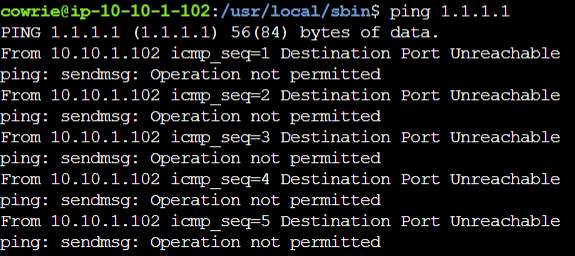
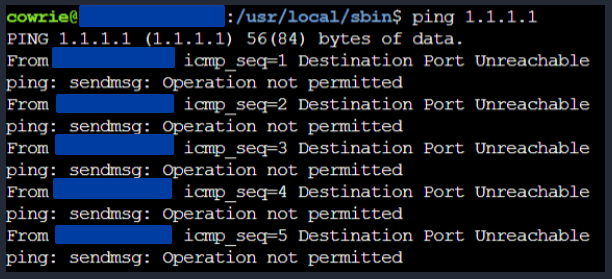
added todos, scheduled queries (subsection), eventbridge

diff --git a/code/lambda.py b/code/lambda.py
@@ -20,7 +20,7 @@ def rows_to_dicts(results):
 def publish(subject, payload):
     response = sns.publish(
         TopicArn=TOPIC_ARN,
-        Subject=subject[:99],
+        Subject=subject[:100],
         Message=json.dumps(payload, indent=2, default=str),
     )
     return response["MessageId"]
@@ -71,17 +71,35 @@ def lambda_handler(event, context):
             return {"alerted": False, "reason": "Query returned no detections"}
 
         detection = rows[0].get("detection", "COWRIE_DETECTION")
+        severity_by_detection = {
+            "CREDENTIAL_GUESSING_BURST": "MEDIUM",
+            "FILE_TRANSFER": "HIGH",
+        }
+        next_step_by_detection = {
+            "CREDENTIAL_GUESSING_BURST": (
+                "Review authentication events for the source IP, then pivot "
+                "on its session identifiers in the private log group."
+            ),
+            "FILE_TRANSFER": (
+                "Review the session, transfer metadata, and SHA-256 value."
+            ),
+        }
+        severity = severity_by_detection.get(detection, "MEDIUM")
+
         payload = {
             "detection": detection,
-            "severity": "MEDIUM",
+            "severity": severity,
             "time": event.get("time"),
             "region": event.get("region"),
             "matched_rows": len(rows),
             "results": rows[:MAX_ROWS_IN_ALERT],
             "statistics": detail.get("statistics", {}),
-            "next_step": "Pivot on src_ip and session in the private log group.",
+            "next_step": next_step_by_detection.get(
+                detection,
+                "Pivot on src_ip and session in the private log group.",
+            ),
         }
-        message_id = publish(f"Cowrie alert: {detection}", payload)
+        message_id = publish(f"{severity}: Cowrie {detection}", payload)
         return {"alerted": True, "message_id": message_id}
 
     return {"alerted": False, "reason": "Unsupported event type"}

diff --git a/README.md b/README.md
@@ -1,12 +1,17 @@
 # AWS CloudWatch-Based SIEM with Honeypot
 
-AWS-Hosted Security Information and Event Management (SIEM) using CloudWatch service with Cowrie Honeypot as data source, data and analytics are sanitized and visualized to a public Cloudfront dashboard.
+AWS-Hosted Security Information and Event Management (SIEM) using CloudWatch service with Cowrie Honeypot as data source, data and analytics are sanitized and visualized to a public CloudFront dashboard.
 
 ## Architecture Overview
 
 <p align="center">
   <img src="images/arch.png" alt="Architecture Overview" width="70%">
 </p>
+
+To-Dos:
+- [ ] Change login success and credential-burst processing
+- [ ] Unblock Cowrie's egress firewall
+- [ ] Create Dashboard and vizg
 
 ## Event Flow
 
@@ -31,49 +36,49 @@ Project uses the following AWS services :
 | **Amazon Lambda** | Evaluates detection results and generates concise alerts |
 | **Amazon SNS** | Distributes alert notifications |
 | **Amazon S3** | Archives raw logs and stores sanitized dashboard data |
-| **Amazon Cloudfront** | Publishes the sanitized portfolio dashboard |
+| **Amazon CloudFront** | Publishes the sanitized portfolio dashboard |
 
-# Preparation
+## Preparation
 
-## Cowrie
+### Cowrie
 
   <img src="images/cowrie-logo.png" alt="Cowrie Logo" width="20%">
 
-Cowrie is a medium- and high-interaction SSH and Telnet honeypot designed to capture brute-force attempts and record attacker activity. In this project, Cowrie operates in medium-interaction shell mode, where it emulates UNIX environment in Python and serves as the primary source of data.
+Cowrie is a medium- and high-interaction SSH and Telnet honeypot designed to capture brute-force attempts and record attacker activity. In this project, Cowrie operates in medium-interaction shell mode where it emulates UNIX environment in Python and serves as the primary source of data.
 
-## Region
+### Region
 
 Regional resources in this project are deployed in the Asia Pacific (Jakarta) Region _(ap-southeast-3)_. CloudFront is a global service, while other resources (EC2, CloudWatch, Lambda, SNS, EventBridge, and S3) are configured in selected AWS Region.
 
-## Pricing Calculation
+### Pricing Calculation
 
 ![Price Calculation](images/pricing-calc.png)
 
-Estimated Monthly cost is **14.06 USD**. The cost covers one **EC2 Instances + gp3 EBS**, and one **Public IPv4 address**.
+Estimated Monthly cost is **14.06 USD** as per of `16 July 2026`. The cost covers one **EC2 Instances + 8GB gp3 EBS**, and one **Public IPv4 address**.
 
-**CloudWatch, Lambda, SNS, S3 & CloudFront** will use Free Tier Plan, therefore the services will be free of charge.
+**CloudWatch, Lambda, SNS, S3 & CloudFront** will use Free Tier Plan and expected to remain within free tier usage, therefore the services will be free of charge.
 
-## Budgeting
+### Budgeting
 
 ![Budget Dashboard](images/budgets.png)
 
 Project service costs per month are tracked via AWS Budgets `Monthly Cost Limit`. Additionally, `Zero-Spend` alert is also configured to flag any unexpected resource usage before it accumulate cost.
 
-## Account
+### Account
 
 Before starting, a separate IAM user named `bint-siem` is created instead of using the root user account for the project. The user is then attached to a user group with only the permissions necessary for this project, following the _Principle of Least Privilege_ (PoLP) 
 
 ![User Group Permissions](images/permissions.png)
 
-# Network
+## Network
 
-## VPC
+### VPC
 
 ![Resource Map](images/resource-map.png)
 
 EC2 instance is deployed in a _Virtual Private Cloud_ (VPC) named `cowrie-siem-vpc` using `10.10.0.0/16` CIDR block, with a public subnet at `10.10.1.0/24`. This setup provides 251 IP addresses (AWS reserves 5 addresses) which is more than enough for the EC2 instance.
 
-## Security Group
+### Security Group
 
 Security group is configured for `cowrie-siem-vpc` with inbound and outbound rules as below:
 
@@ -90,20 +95,20 @@ b. Outbound Rules
 | HTTPS | TCP | 443 | `0.0.0.0/0` | SSM, CloudWatch, AWS APIs, HTTPS package repositories
 | HTTP | TCP | 80 | `0.0.0.0/0` | If a package repository still requires HTTP
 
-# EC2
+## EC2
 
-## IAM role
+### IAM role
 
 ![Resource Map](images/ec2-role.png)
 
 EC2 instance is attached with a role with policies below:
 
-a. `AmazonSSMManagedInstanceCore` : Enable AWS Systems Manager service core 
+a. `AmazonSSMManagedInstanceCore`: Enable AWS Systems Manager service core 
 functionality
 
-b. `CowrieCloudWatchLogsWrite` _(Inline Policy)_ : Send logs only to `/honeypot/cowrie` CloudWatch Logs group
+b. `CowrieCloudWatchLogsWrite` _(Inline Policy)_: Send logs only to `/honeypot/cowrie` CloudWatch Logs group
 
-## Installing Cowrie
+### Installing Cowrie
 
 Before installing Cowrie, a dedicated unprevileged user and python venv are created. Running Cowrie without admin power limits impact if honeypot is compromised, venv keeps python dependencies isolated from the system environment.
 
@@ -120,12 +125,12 @@ listen_endpoints = tcp:22:interface=0.0.0.0
 [telnet]
 enabled = false
 ```
-Since ports 1-1023 are reserved for root user, `CAP_NET_BIND_SERVICE` is used:
+Since ports 1-1023 normally requires root privileges, `CAP_NET_BIND_SERVICE` is used:
 ```
-# Limits privileges available to Cowrie, so it can only request the power to bind to low ports.
+# Restrict the service's available capabilities
 CapabilityBoundingSet=CAP_NET_BIND_SERVICE
 
-# Give the low ports bind privilege to Cowrie 
+# Grant the capability required to bind to TCP port 22
 AmbientCapabilities=CAP_NET_BIND_SERVICE
 ```
 
@@ -135,27 +140,25 @@ Once configuration is set, give TCP 22 port to cowrie by disabling `ssh.service`
 
 Note that SSH is no longer available, EC2 is accessed via AWS Systems Manager (SSM)
 
-## Blocking new outbound connections from Cowrie
+### Blocking new outbound connections from Cowrie
 
 After installing and configuring Cowrie in the EC2 instance, connections initiated by Cowrie are blocked using:
 ```
 meta skuid ${COWRIE_UID} ct state new reject
 ```
-This rule is implemented using a script & persisted using systemd.
+This rule is implemented using a script and persisted using systemd.
 
-After implementation, Cowrie cannot initiate outbound connections. It can only respond to attackers who establish an inbound connection.
+After implementation, Cowrie `User ID` can't initiate outbound connections. It can only reply to attackers who establish an inbound connection.
 
-![Cowrie](images/cowrie.png)
+![Cowrie](images/firewall-block-success.png)
 
+## Detecting the attackers
 
-
-# CloudWatch
-
-## Log Group
+### CloudWatch Log Group
 
 Created `/honeypot/cowrie` log group to receive logs from Cowrie EC2 instance.
 
-## CloudWatch Agent
+### CloudWatch Agent
 
 `AmazonCloudWatchAgent` package is installed to the EC2 instance via SSM &rarr; Run command, using `AWS-ConfigureAWSPackage` document.
 
@@ -164,11 +167,11 @@ CloudWatch agent is configured as below:
 Source &rarr; `/log/cowrie/cowrie.json`
 Target &rarr; `/honeypot/cowrie`
 
-After configuration, CloudWatch agent successfully sends logs to Cloudwatch Logs.
+After configuration, CloudWatch agent successfully sends logs to CloudWatch Logs.
 
-![Cloudwatch Logs](images/cloudwatch-logs.png)
+![CloudWatch Logs](images/CloudWatch-logs.png)
 
-## Metric Filter & Alarm
+### Metric Filter & Alarm
 
 Metric filter is configured to detect any successful login events using pattern:
 
@@ -178,13 +181,59 @@ Metric filter is configured to detect any successful login events using pattern:
 
 Each matching event adds a value of `1` to the metric. If no matching event is found, the default value is `0`.
 
-The alarm is configured to enter `ALARM` state when the metric value sum is `>=1` within 1 minute.
+Alarm `cowrie-login-success` is configured to enter `ALARM` state when the metric value sum is `>=1` within 1 minute.
 
-# SNS
+### Scheduled Query
+
+CloudWatch's scheduled query is created to detect:
+
+**a. Credential Attempts in honeypot**
+
+  Accepted and rejected attempts are detected using query as below:
+
+  ```
+  fields "CREDENTIAL_GUESSING_BURST" as detection,
+        src_ip,
+        username,
+        session
+  | filter eventid = "cowrie.login.failed"
+      or eventid = "cowrie.login.success"
+  | stats count(*) as attempts,
+          count_distinct(username) as usernames,
+          count_distinct(session) as sessions
+    by detection, src_ip
+  | filter attempts >= 3
+  | sort attempts desc
+  ```
+  The query is run every 15 minutes indefinitely, with lookback of 15 minutes.
+   
+**b. File-transfers in honeypot**
+
+  File uploads and downloads in Cowrie are detected using query:
+
+  ```
+  fields "FILE_TRANSFER" as detection,
+        @timestamp,
+        eventid,
+        src_ip,
+        session,
+        url,
+        filename,
+        outfile,
+        shasum
+  | filter eventid = "cowrie.session.file_upload"
+      or eventid = "cowrie.session.file_download"
+  | sort @timestamp desc
+  | limit 50
+  ```
+  Since file-transfers are higher-priority than login attempts, the query is run every 5 minutes with lookback of 5 minutes.
+
+
+### SNS
 
 `cowrie-sec-alerts` SNS topic is created to be used for alerting via Telegram.
 
-# Lambda
+### Lambda
 
 `cowrie-detector` function is created using configuration as below:
 
@@ -192,4 +241,11 @@ The alarm is configured to enter `ALARM` state when the metric value sum is `>=1
 `timeout = 15 seconds` for safety buffer in case of network delays
 `env_variable = SNS_TOPIC_ARN`  to avoid hardcoding ARN
 
-Lambda code is available [here](script.py)  
+Lambda code is available [here](script.py) 
+
+### EventBridge
+
+Rule named `cowrie-login-success-to-detector` is created to receive `cowrie-login-success` alarm, and send it to `cowrie-detector` Lambda.
+
+Another rule named `cowrie-scheduled-queries-to-detector` is created to send scheduled queries to `cowrie-detector` Lambda.
+
